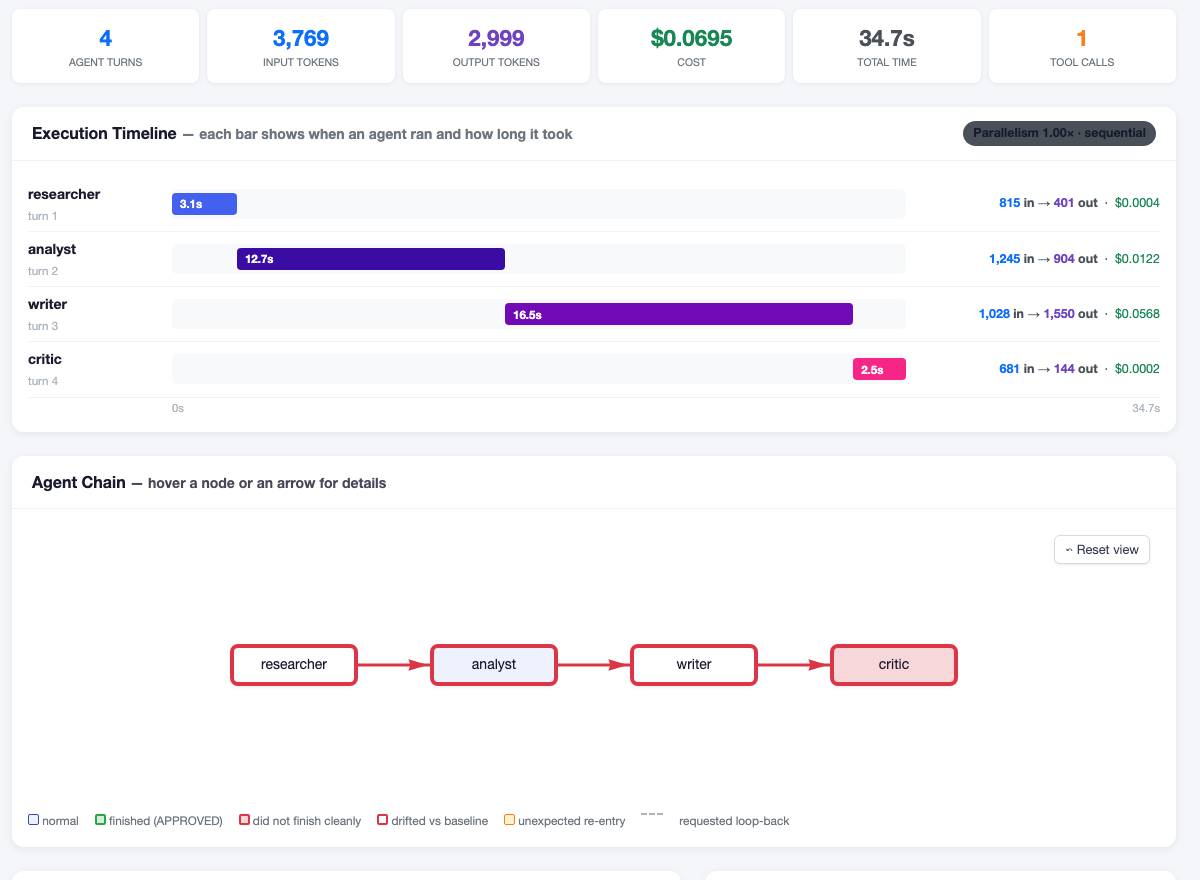
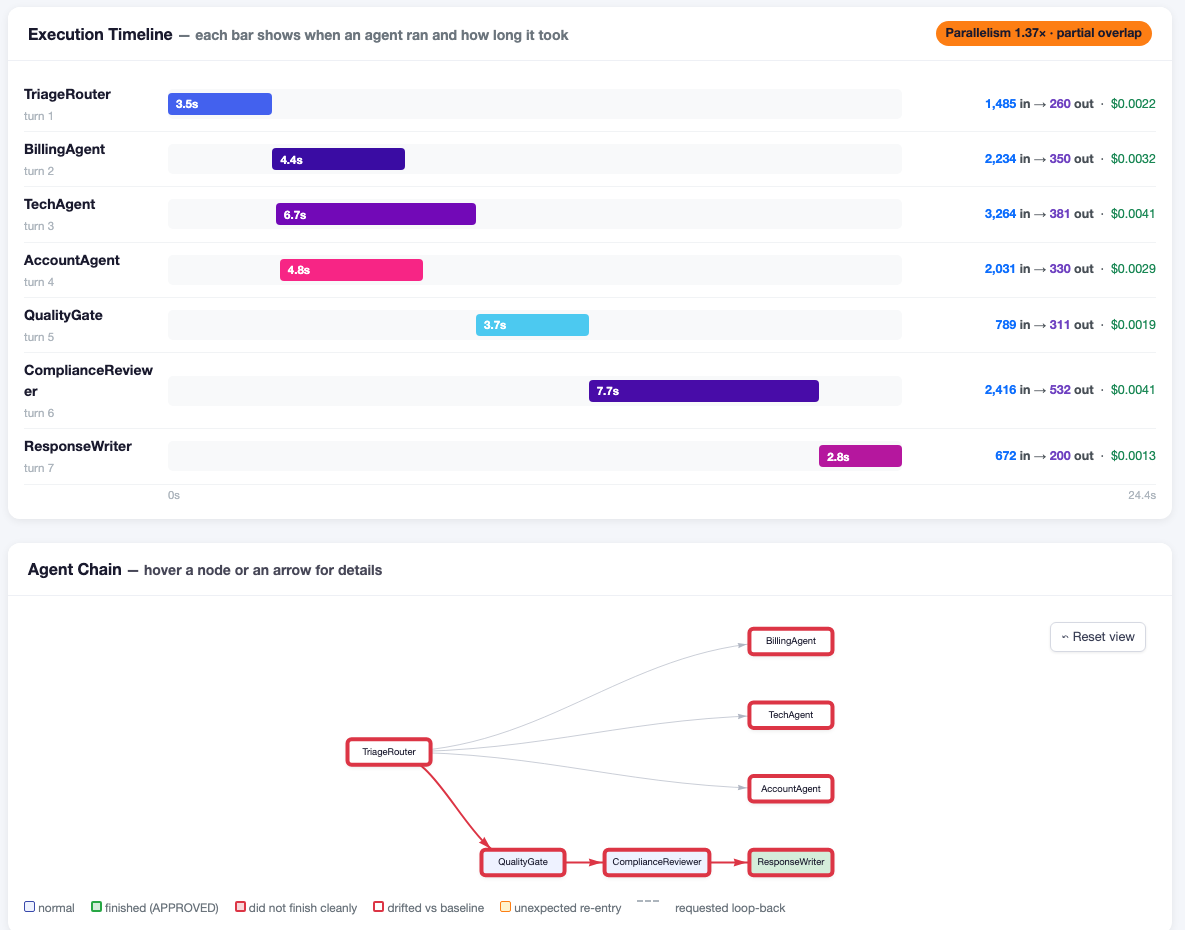
Landing: drop reuse section, parallel-workflow run screenshot
"See the run, not the logs" now shows a 7-agent run with a 3-branch
parallel fan-out (timeline + agent chain DAG).

diff --git a/docs/index.html b/docs/index.html
@@ -220,15 +220,7 @@
     font-size: 13px; color: var(--accent); font-weight: 600; white-space: nowrap;
   }
 
-  /* open source band */
   .band { background: var(--bg-soft); border-top: 1px solid var(--line); border-bottom: 1px solid var(--line); }
-  .grid3 { display: grid; grid-template-columns: repeat(3, 1fr); gap: 22px; margin-top: 36px; }
-  .cell {
-    background: #fff; border: 1px solid var(--line); border-radius: var(--radius);
-    padding: 22px 22px;
-  }
-  .cell h4 { font-size: 15.5px; margin-bottom: 6px; }
-  .cell p { font-size: 14.2px; color: var(--ink-soft); }
 
   /* final CTA */
   .final { background: var(--dark); color: #fff; text-align: center; }
@@ -251,7 +243,7 @@
     .hero-shot::before { inset: 10% 0 0 0; }
   }
   @media (max-width: 860px) {
-    .steps, .grid3 { grid-template-columns: 1fr; }
+    .steps { grid-template-columns: 1fr; }
     .feature, .feature.flip, .split { grid-template-columns: 1fr; gap: 26px; }
     .feature.flip .txt { order: 1; }
     .feature.flip .shot { order: 2; }
@@ -356,14 +348,14 @@ instrument(task_type=<span class="c">'my-system'</span>)</div>
     <div class="feature flip">
       <div class="txt">
         <h3>See the run, not the logs</h3>
-        <p>A run is not a wall of log lines. Every run gets an execution timeline and an interactive agent-chain DAG: who ran in what order, how long each turn took, and where the failure surfaced.</p>
+        <p>A run is not a wall of log lines. Every run gets an execution timeline and an interactive agent-chain DAG: who ran in what order, what fanned out in parallel, and where the failure surfaced.</p>
         <ul>
           <li>Gantt timeline with per-turn tokens, latency, and cost</li>
+          <li>Parallel fan-outs with bottleneck branch and join efficiency</li>
           <li>Hover any handoff for payload size, receiver outcome, and downstream success</li>
-          <li>Per-run anomalies against each agent's usual behaviour</li>
         </ul>
       </div>
-      <div class="shot"><img src="screenshots/run-detail.png" alt="Run detail view with execution timeline and agent chain DAG"></div>
+      <div class="shot"><img src="screenshots/run-detail.png" alt="Run detail of a parallel workflow: execution timeline with overlapping agent turns and a fan-out agent chain DAG"></div>
     </div>
 
     <div class="feature">
@@ -399,28 +391,6 @@ instrument(task_type=<span class="c">'my-system'</span>)</div>
         <div class="tool"><code>get_todays_finding</code><span>Active drift findings as root-cause-led investigation cards</span></div>
         <div class="tool"><code>get_version_comparison</code><span>Which release introduced the change that broke an outcome</span></div>
         <div class="tool"><code>get_next_check_steps</code><span>Recommended next investigation steps per finding</span></div>
-      </div>
-    </div>
-  </div>
-</section>
-
-<section>
-  <div class="wrap">
-    <div class="kicker">Open source</div>
-    <h2>Built to be reused, not just run</h2>
-    <p class="sub">MIT licensed. Even if you never deploy AgentPulse, the design decisions carry over to any in-house observability build.</p>
-    <div class="grid3">
-      <div class="cell">
-        <h4>Three kinds of drift</h4>
-        <p>Agent behaviour, handoff, and route drift are different failure classes with different signals, detected separately.</p>
-      </div>
-      <div class="cell">
-        <h4>Upstream origination</h4>
-        <p>Walk the handoff graph upstream from the symptom and stop where input is stable but output drifted. That is where the fix belongs.</p>
-      </div>
-      <div class="cell">
-        <h4>Corroborated severity</h4>
-        <p>An outcome breach escalates only when co-timed signals and a plausible change event line up. Lone metrics stay candidates.</p>
       </div>
     </div>
   </div>